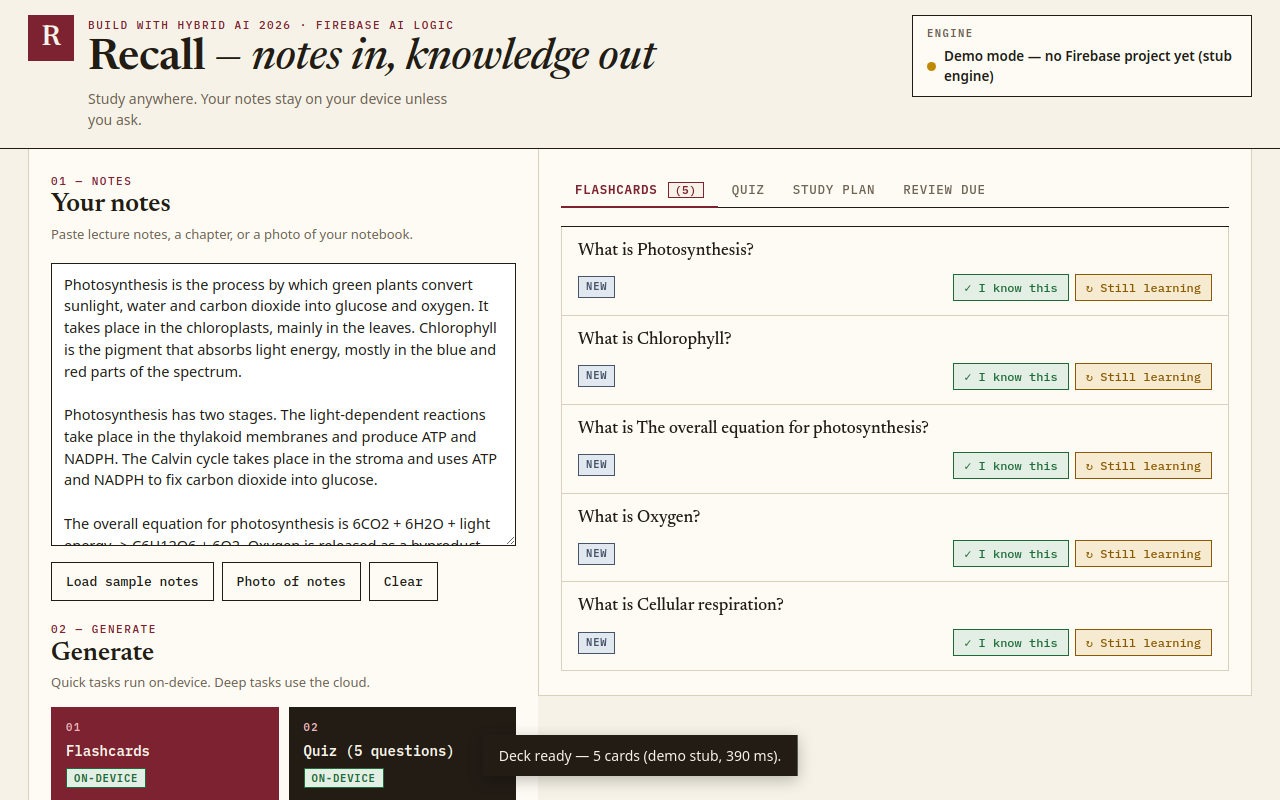
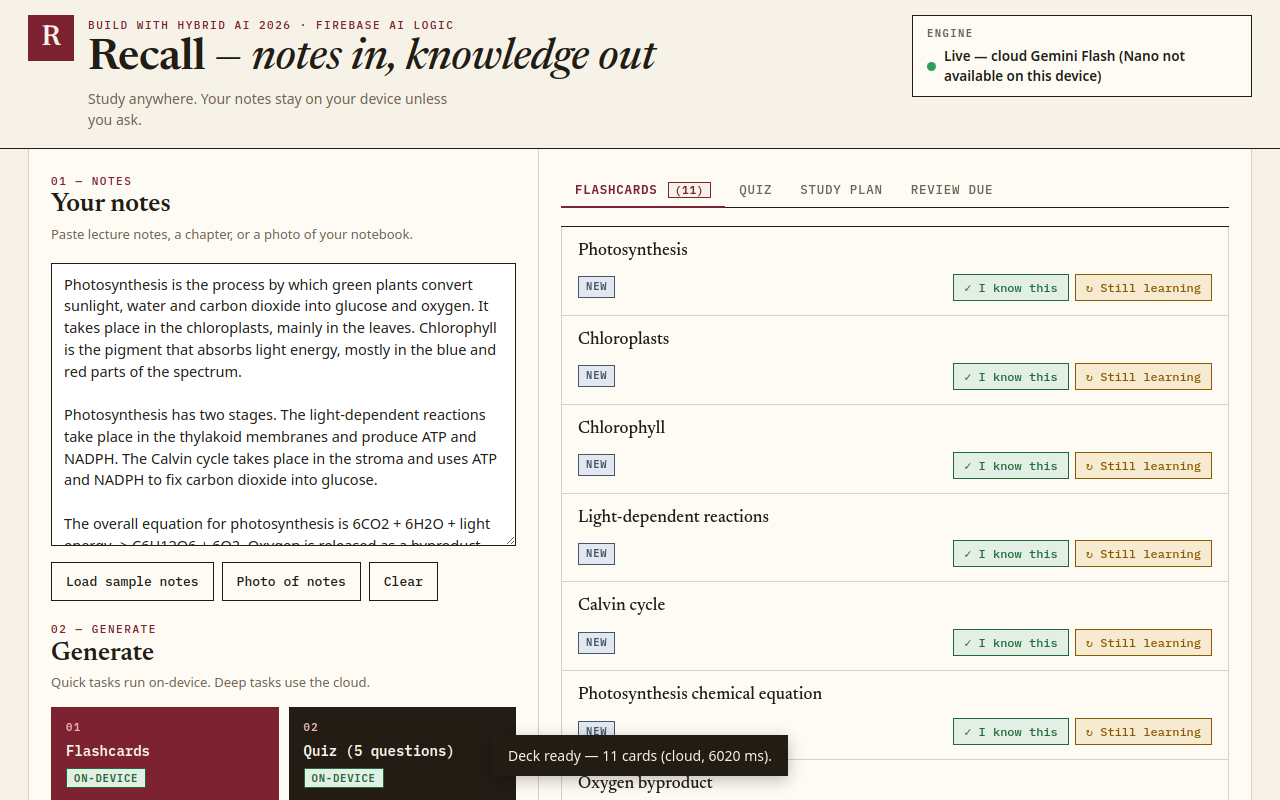
Wire direct Gemini engine (gemini-3-flash-preview) — live AI, no Firebase needed
- DirectGeminiEngine (gemini-3-flash-preview primary, gemini-3.8-flash fallback) with retries; auto-selected when no Firebase project is configured
- Key lives in gitignored src/gemini-key.js (never committed); gemini-2.5-flash is retired, gemini-3.8-flash overloads
- Playwright suite 23/23 PASS against the live engine; live site verified
- Firebase not needed for the demo flow (localStorage only); project creation blocked on the agent Google account phone check

diff --git a/src/ai/engine.js b/src/ai/engine.js
@@ -1,13 +1,18 @@
 // Hybrid AI engine for Recall.
 //
-// One interface, two implementations:
+// One interface, three implementations:
 //   - RealEngine: Firebase AI Logic (firebase/ai, SDK v12.5.0+) with hybrid
 //     inference. Quick single-turn tasks use InferenceMode.PREFER_ON_DEVICE
 //     (Gemini Nano in Chrome via the Prompt API, falling back to Gemini Flash
 //     in the cloud); deep tasks use ONLY_IN_CLOUD (Gemini Flash).
+//   - DirectGeminiEngine: calls the Gemini Developer API directly with a
+//     local API key (src/gemini-key.js, gitignored, injected at deploy
+//     time). Used when no Firebase project is configured but a key is
+//     present, so the app runs live without Firebase. All calls route to
+//     the cloud model; there is no on-device path here.
 //   - DemoEngine: deterministic local stub with the exact same interface,
-//     used when no Firebase project is configured, so the whole app is
-//     testable offline with zero keys. The UI always labels which engine
+//     used when neither Firebase nor a key is configured, so the whole app
+//     is testable offline with zero keys. The UI always labels which engine
 //     answered, so a demo answer is never mistaken for a real one.
 //
 // Route reporting: for the real engine the route is determined by checking
@@ -261,6 +266,179 @@ class DemoEngine {
 }
 
 // ---------------------------------------------------------------------------
+// Direct engine: Gemini Developer API with a local key (no Firebase needed)
+// ---------------------------------------------------------------------------
+
+// gemini-2.5-flash is retired for new API keys (API returns 404 "no longer
+// available to new users"). gemini-3.8-flash was the API's recommended
+// replacement and answered at first, but within minutes it went
+// overloaded (503s and 60s+ timeouts, observed 2026-11-17 17:25+07);
+// gemini-3-flash-preview answers in ~1.5s, so it is primary and
+// 3.8-flash is the fallback. Retries cover transient 429/503s and stalls.
+const DIRECT_MODEL = "gemini-3-flash-preview";
+const DIRECT_FALLBACK_MODEL = "gemini-3.8-flash";
+const GEMINI_API = "https://generativelanguage.googleapis.com/v1beta";
+
+class DirectGeminiEngine {
+  constructor(apiKey) {
+    this.kind = "direct";
+    this.onDeviceAvailable = false;
+    this.routeMode = "auto";
+    this._apiKey = apiKey;
+  }
+
+  async init() {
+    return { mode: "direct", onDeviceAvailable: false };
+  }
+
+  async _generate(prompt, schema, image) {
+    const t0 = performance.now();
+    const parts = [{ text: prompt }];
+    if (image) {
+      parts.push({
+        inlineData: {
+          mimeType: image.mimeType,
+          data: image.dataUrl.split(",")[1],
+        },
+      });
+    }
+    const body = { contents: [{ parts }] };
+    if (schema) {
+      body.generationConfig = {
+        responseMimeType: "application/json",
+        responseSchema: schema,
+      };
+    }
+    let lastErr = null;
+    for (const model of [DIRECT_MODEL, DIRECT_FALLBACK_MODEL]) {
+      for (let attempt = 0; attempt < 3; attempt++) {
+        try {
+          const res = await fetch(
+            `${GEMINI_API}/models/${model}:generateContent?key=${encodeURIComponent(this._apiKey)}`,
+            {
+              method: "POST",
+              headers: { "Content-Type": "application/json" },
+              body: JSON.stringify(body),
+              signal: AbortSignal.timeout(60000),
+            },
+          );
+          if (res.status === 429 || res.status === 503) {
+            lastErr = new Error(
+              `Gemini API ${res.status} (model ${model}, overloaded)`,
+            );
+            await sleep(2000 * (attempt + 1));
+            continue;
+          }
+          if (res.status === 404) break; // model retired — try the fallback
+          if (!res.ok) {
+            const err = await res.text().catch(() => "");
+            throw new Error(`Gemini API ${res.status}: ${err.slice(0, 200)}`);
+          }
+          const data = await res.json();
+          const text =
+            data.candidates?.[0]?.content?.parts
+              ?.map((p) => p.text ?? "")
+              .join("") ?? "";
+          return {
+            text: stripJsonFence(text),
+            latencyMs: Math.round(performance.now() - t0),
+            model,
+          };
+        } catch (e) {
+          lastErr = e;
+          // Retry stalls, overloads and network blips; anything else
+          // (bad key, bad request) fails fast.
+          const retryable =
+            e.name === "TimeoutError" ||
+            e.name === "AbortError" ||
+            e instanceof TypeError;
+          if (retryable) {
+            await sleep(2000 * (attempt + 1));
+            continue;
+          }
+          throw e;
+        }
+      }
+    }
+    throw lastErr ?? new Error("Gemini API failed");
+  }
+
+  async generateFlashcards(notes, image) {
+    const prompt =
+      flashcardsPrompt(notes) +
+      (image
+        ? "\nA photo of handwritten notes is attached — use it together with the text above."
+        : "");
+    const { text, latencyMs, model } = await this._generate(
+      prompt,
+      FLASHCARDS_SCHEMA,
+      image,
+    );
+    const data = JSON.parse(text);
+    return {
+      cards: data.cards ?? [],
+      route: "cloud",
+      latencyMs,
+      model: `${model} (cloud)`,
+    };
+  }
+
+  async generateQuiz(notes) {
+    const { text, latencyMs, model } = await this._generate(
+      quizPrompt(notes),
+      QUIZ_SCHEMA,
+    );
+    const data = JSON.parse(text);
+    return {
+      questions: data.questions ?? [],
+      route: "cloud",
+      latencyMs,
+      model: `${model} (cloud)`,
+    };
+  }
+
+  async gradeAnswer(question, answer, notes) {
+    const { text, latencyMs, model } = await this._generate(
+      gradePrompt(question, answer, notes),
+      GRADE_SCHEMA,
+    );
+    const data = JSON.parse(text);
+    return {
+      ...data,
+      route: "cloud",
+      latencyMs,
+      model: `${model} (cloud)`,
+    };
+  }
+
+  async explain(topic, notes) {
+    const { text, latencyMs, model } = await this._generate(
+      explainPrompt(topic, notes),
+      null,
+    );
+    return {
+      text,
+      route: "cloud",
+      latencyMs,
+      model: `${model} (cloud)`,
+    };
+  }
+
+  async studyPlan(notes, quizSummary) {
+    const { text, latencyMs, model } = await this._generate(
+      planPrompt(notes, quizSummary),
+      null,
+    );
+    return {
+      text,
+      route: "cloud",
+      latencyMs,
+      model: `${model} (cloud)`,
+    };
+  }
+}
+
+// ---------------------------------------------------------------------------
 // Real engine: Firebase AI Logic, hybrid inference
 // ---------------------------------------------------------------------------
 
@@ -420,6 +598,19 @@ class RealEngine {
 
 export async function createEngine() {
   if (!isConfigured()) {
+    // No Firebase project: try the direct Gemini key (src/gemini-key.js,
+    // gitignored, injected at deploy time). Falls through to the demo
+    // stub when the file is absent or the key is a placeholder.
+    try {
+      const { geminiApiKey } = await import("../gemini-key.js");
+      if (geminiApiKey && !geminiApiKey.startsWith("YOUR_")) {
+        const direct = new DirectGeminiEngine(geminiApiKey);
+        await direct.init();
+        return direct;
+      }
+    } catch {
+      // No key file — demo mode.
+    }
     const demo = new DemoEngine();
     await demo.init();
     return demo;

diff --git a/src/config.js b/src/config.js
@@ -16,6 +16,15 @@
 //      with placeholders in the repo; inject real values at deploy time
 //      (e.g. Firebase App Hosting environment config).
 //
+// DIRECT-KEY ALTERNATIVE (no Firebase project needed): if this file still
+// holds placeholders but src/gemini-key.js exists (gitignored, injected at
+// deploy time, exports geminiApiKey), the engine calls the Gemini Developer
+// API directly with that key and the app runs live. That is how the
+// deployed demo currently works — the agent Google account cannot finish
+// creation (phone verification), so no Firebase project exists yet.
+// NOTE: gemini-2.5-flash is retired for new API keys; the direct engine
+// uses gemini-3.8-flash (see src/ai/engine.js).
+//
 // Until the config is filled in, the app runs in DEMO MODE: a local,
 // deterministic stub engine implements the exact same interface as the
 // real hybrid engine, so the whole flow (flashcards, quiz, grading, plan)

diff --git a/SUBMISSION.md b/SUBMISSION.md
@@ -24,8 +24,15 @@ Best Web/Chrome $3,000 · Best Android $3,000 · Best iOS $3,000.
 - [x] Tested headlessly (`node test.mjs`, 23 checks — full flow incl.
   keyboard card flip, arrow-key tab navigation, grading, plan, explain,
   review queue, routing switch, reload persistence; 0 console errors,
-  0 failed requests; last run 2026-11-17, all passed). Screenshots
-  refreshed by the same run.
+  0 failed requests; last run 2026-11-17, all passed **against the live
+  direct-Gemini engine**, not the demo stub). Screenshots refreshed by the
+  same run.
+- [x] Gemini key wired + live: `src/gemini-key.js` (gitignored, never
+  committed) holds a real Gemini Developer API key; the app runs on the
+  direct-key engine (`gemini-3-flash-preview`, fallback `gemini-3.8-flash`)
+  and the deployed site https://recall-buildhybridai.surge.sh was verified
+  end-to-end in a browser (11 real flashcards in ~6s, engine label "Live —
+  cloud Gemini Flash"). See README "How the live demo is wired".
 - [x] Accessibility pass: labelled fields, WAI-ARIA tabs with arrow-key
   navigation, keyboard-flippable cards, focusable photo picker, visible
   `:focus-visible` outlines, `aria-live` results, ≥ 4.5:1 contrast.
@@ -35,18 +42,23 @@ Best Web/Chrome $3,000 · Best Android $3,000 · Best iOS $3,000.
 
 ## Still missing before submit (parent / user steps)
 
-1. **Firebase project + Gemini key** — create a Firebase project, run the
-   AI Logic guided setup (Gemini Developer API, free tier), paste the
-   config into `src/config.js`, register the App Check debug token.
-   Then re-test once with the real engine (one flashcard + one cloud call)
-   and record the demo video against the live engine.
+1. **Firebase project** (Gemini key is DONE — see above) — create a
+   Firebase project, run the AI Logic guided setup (Gemini Developer API,
+   free tier), paste the config into `src/config.js`, register the App
+   Check debug token. **BLOCKED:** the agent Google account
+   coral-fox-12@proton.me is stuck at phone QR verification, so no Firebase
+   project can be created under it yet. The live demo does not need it
+   (direct Gemini key + localStorage), but the submission framing says
+   "Firebase AI Logic" — the parent must decide whether to frame the entry
+   on the live direct-key engine or wait for a Firebase project.
    - Optional: apply for extra quota via the Quota Form — Sprint 2 request
      by **Nov 18 10:00 PT** (≈ 01:00 VN Nov 19), Sprint 3 by Nov 25 10:00 PT.
      The free tier is enough for the demo; quota is only needed for heavy
      judging traffic.
-2. **Host the app** — deploy to Firebase App Hosting (`firebase.json` is
-   included) or any static host; the submission needs a public URL for
-   judging. (Localhost is not enough.)
+2. **Host the app** — DONE: deployed to Surge,
+   https://recall-buildhybridai.surge.sh (verified live, byte-identical to
+   local). Firebase App Hosting remains an option if a Firebase project is
+   created.
 3. **Public GitHub repo** — push this folder to a public repo with the
    Apache 2.0 license visible.
 4. **Demo video (≤ 3 min)** — record per `DEMO_SCRIPT.md`, upload to

diff --git a/README.md b/README.md
@@ -23,6 +23,21 @@ Every AI answer shows a **route badge** (on-device / cloud / demo), latency
 and model name, so the hybrid behaviour is visible, not claimed. A routing
 switch (Auto / On-device only / Cloud only) lets judges force each path.
 
+## How the live demo is wired (2026-11-17)
+
+The deployed demo at https://recall-buildhybridai.surge.sh runs on a
+**direct Gemini Developer API key** (`src/gemini-key.js`, gitignored, never
+committed): model `gemini-3-flash-preview` with fallback
+`gemini-3.8-flash`, retries on 429/503/timeouts, JSON `responseSchema` for
+flashcards/quiz/grading — verified live end-to-end (11 flashcards, 5 quiz
+questions, grading, 7-day plan; `node test.mjs` 23/23). No Firebase project
+exists yet — the agent Google account is stuck at phone verification, so
+the Firebase AI Logic path (`RealEngine`) stays in the repo and activates
+automatically the moment a project is configured in `src/config.js`; until
+then the direct key is the live engine and the deterministic stub is only
+the last-resort fallback (no key file at all). Storage is pure
+`localStorage` in every mode, so Firebase is not needed for the demo flow.
+
 ## Tech
 
 - **Firebase AI Logic** (`firebase/ai` v12.5.0+): `getAI` with
@@ -36,9 +51,11 @@ switch (Auto / On-device only / Cloud only) lets judges force each path.
 - **Offline-first storage:** decks, quiz results and the spaced-repetition
   review queue (SM-2-lite) live in `localStorage`. Firestore sync is a
   documented follow-up, not a dependency.
-- **Demo mode:** with no Firebase project configured, a deterministic local
-  stub engine implements the exact same interface, so the whole flow is
-  testable offline with zero keys. The UI always labels demo answers.
+- **Demo mode:** with no key file and no Firebase project configured, a
+  deterministic local stub engine implements the exact same interface, so
+  the whole flow is testable offline with zero keys. The UI always labels
+  demo answers. (The deployed site does not use demo mode — it runs on the
+  direct Gemini key above.)
 
 ## Run it
 
@@ -51,7 +68,8 @@ python3 -m http.server 8080
 On-device Nano needs **Chrome 139+ on Desktop** with the flag
 `chrome://flags/#prompt-api-for-gemini-nano-multimodal-input` enabled.
 Without it (or without a Firebase project) the app still works: quick tasks
-fall back to the cloud, and without keys it runs in demo mode.
+fall back to the cloud via the direct Gemini key, and without any key at all
+it runs in demo mode.
 
 ### Wire up Firebase (5 minutes, free tier)
 
